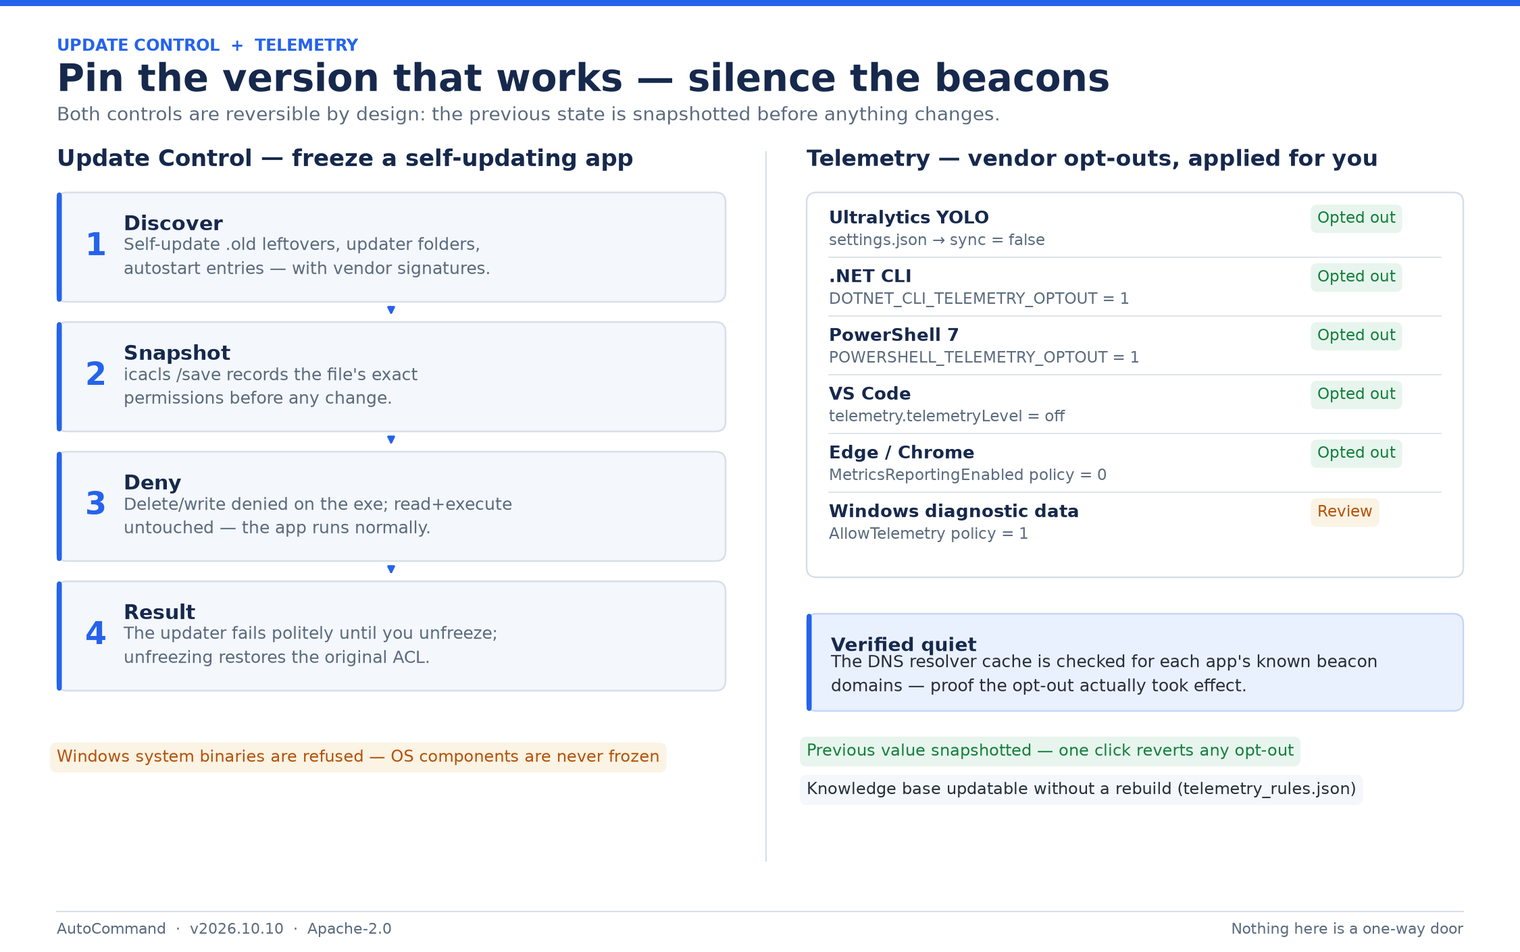
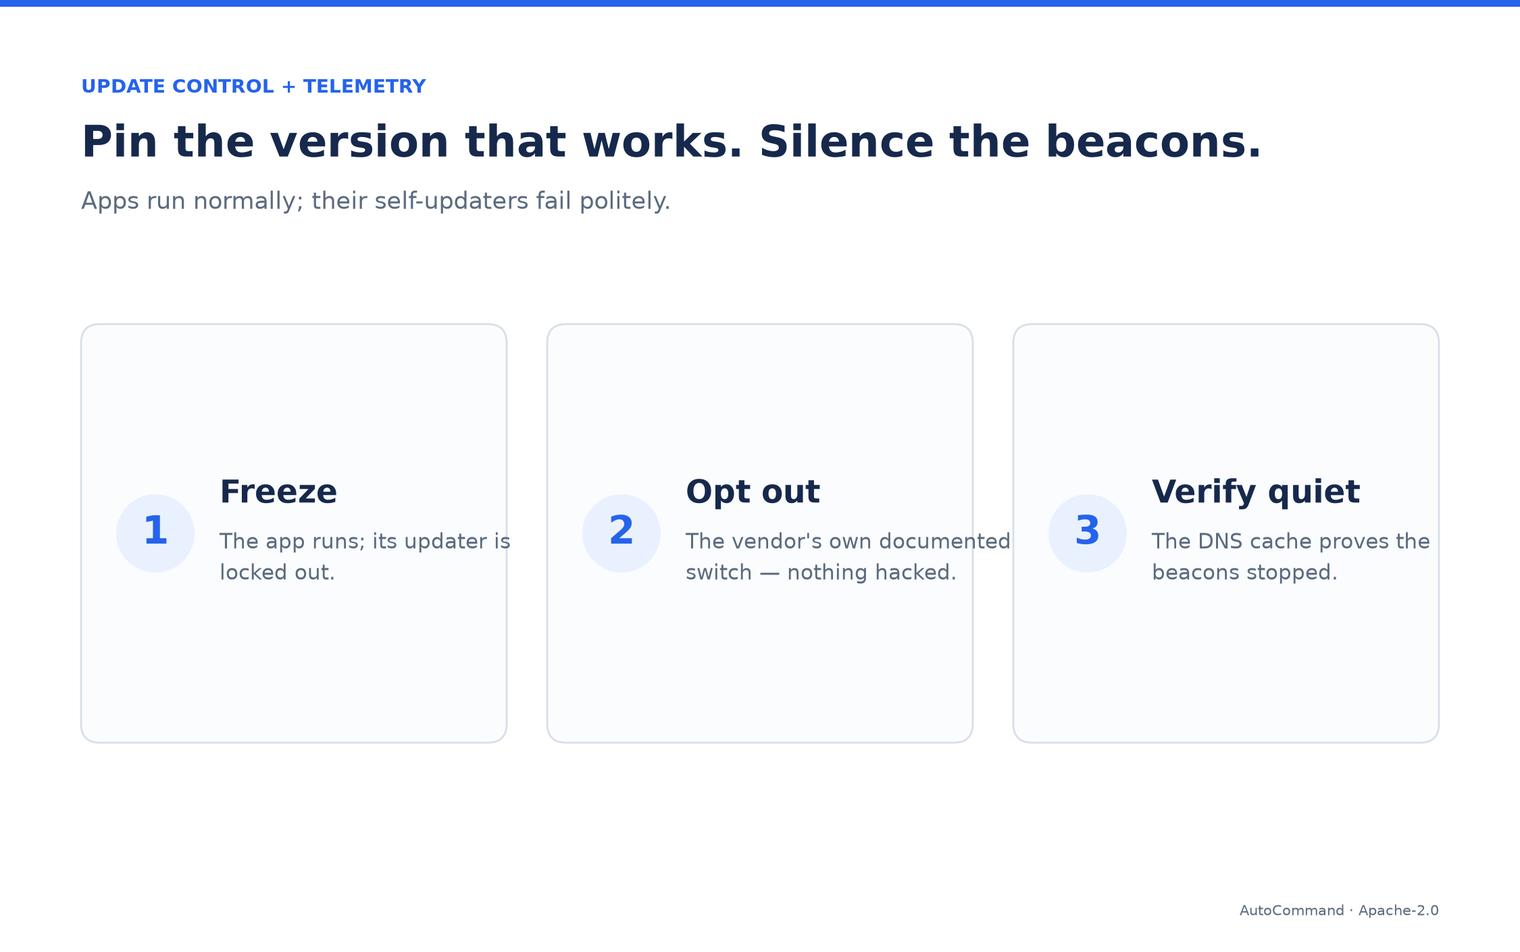
docs: README rewritten for scannability; infographics redesigned clean
- README rebuilt: hero banner, why-bullets, one scannable table for all 16
  tabs, blocked-things workflow section, tightened safety/build/credits
- infographics redesigned at the source (Assets/regenerate_infographics.py):
  one headline + one subline + 3 numbered steps with a single short line
  each — replaces the dense multi-panel corporate layout; pills and card
  text are measured/wrapped so nothing overflows

diff --git a/Assets/regenerate_infographics.py b/Assets/regenerate_infographics.py
@@ -1,0 +1,175 @@
+"""AutoCommand README infographics — clean redesign.
+
+Design rules (why these images read at a glance):
+  ONE headline (<= 7 words), ONE subline (<= 12 words),
+  exactly 3 steps: big number + 2-4 word label + ONE line of <= 9 words.
+  No jargon, no chips, no dense paragraphs, no stale version footer.
+
+Usage:  python Assets/regenerate_infographics.py
+Outputs: corp_banner, corp_why, corp_debloat, corp_visibility,
+         corp_control, corp_hardening  (.png, 2250x1410)
+Requires: matplotlib
+"""
+import os
+
+import matplotlib
+matplotlib.use("Agg")
+import matplotlib.pyplot as plt
+from matplotlib.patches import Circle, FancyBboxPatch
+
+matplotlib.rcParams["font.family"] = "DejaVu Sans"
+
+PAGE = "#FFFFFF"
+NAVY = "#16294C"
+MUTED = "#5B6B7E"
+ACCENT = "#2563EB"
+ACCENT_SOFT = "#EAF1FE"
+BORDER = "#D7DFE9"
+W, H = 2250, 1410
+MARGIN = 120
+OUT = os.path.dirname(os.path.abspath(__file__))
+
+
+def canvas():
+    fig = plt.figure(figsize=(W / 100, H / 100), dpi=100)
+    ax = fig.add_axes([0, 0, 1, 1])
+    ax.set_xlim(0, W)
+    ax.set_ylim(0, H)
+    ax.invert_yaxis()
+    ax.axis("off")
+    fig.patch.set_facecolor(PAGE)
+    ax.add_patch(FancyBboxPatch((0, 0), W, 10, boxstyle="round,pad=0,rounding_size=0",
+                                linewidth=0, facecolor=ACCENT))
+    return fig, ax
+
+
+def header(ax, kicker, title, subline):
+    ax.text(MARGIN, 130, kicker.upper(), fontsize=20, color=ACCENT,
+            fontweight="bold", va="center")
+    ax.text(MARGIN, 215, title, fontsize=46, color=NAVY, fontweight="bold", va="center")
+    ax.text(MARGIN, 300, subline, fontsize=25, color=MUTED, va="center")
+
+
+def step_card(ax, fig, x, y, w, h, num, label, line):
+    ax.add_patch(FancyBboxPatch((x, y), w, h, boxstyle="round,pad=0,rounding_size=28",
+                                linewidth=2, edgecolor=BORDER, facecolor="#FBFCFE"))
+    import textwrap
+    cx = x + 110
+    cy = y + h / 2
+    ax.add_patch(Circle((cx, cy), 58, facecolor=ACCENT_SOFT, edgecolor="none"))
+    ax.text(cx, cy, str(num), fontsize=42, color=ACCENT, fontweight="bold",
+            ha="center", va="center")
+    x_text = x + 205
+    usable = w - 205 - 70
+    wrap_at = max(14, int(usable / 12.2))          # ~px per char at 22px DejaVu
+    lines = textwrap.wrap(line, wrap_at)[:3]
+    ax.text(x_text, cy - 58, label, fontsize=34, color=NAVY, fontweight="bold", va="center")
+    for i, ln in enumerate(lines):
+        ax.text(x_text, cy + 14 + i * 46, ln, fontsize=22, color=MUTED, va="center")
+
+
+def three_steps(ax, fig, steps):
+    gap = 60
+    cw = (W - 2 * MARGIN - 2 * gap) / 3
+    y, h = 480, 620
+    for i, (label, line) in enumerate(steps):
+        step_card(ax, fig, MARGIN + i * (cw + gap), y, cw, h, i + 1, label, line)
+
+
+def pill_row(ax, fig, items, y, fontsize=23):
+    renderer = fig.canvas.get_renderer()
+    px = MARGIN
+    for p in items:
+        t = ax.text(px, y, p, fontsize=fontsize, color=NAVY, va="center", fontweight="bold",
+                    bbox=dict(boxstyle="round,pad=0.65", facecolor=ACCENT_SOFT, edgecolor="none"))
+        bb = t.get_window_extent(renderer=renderer).transformed(ax.transData.inverted())
+        px = bb.x1 + 55
+
+
+def finish(fig, name):
+    ax = fig.axes[0]
+    ax.text(W - MARGIN, H - 60, "AutoCommand · Apache-2.0", fontsize=15,
+            color=MUTED, ha="right", va="center")
+    fig.savefig(os.path.join(OUT, name), dpi=100, facecolor=PAGE)
+    plt.close(fig)
+    print("wrote", name)
+
+
+# ── 1. banner ────────────────────────────────────────────────────────────
+def banner():
+    fig, ax = canvas()
+    ax.text(MARGIN, 520, "AutoCommand", fontsize=104, color=NAVY, fontweight="bold", va="center")
+    ax.text(MARGIN, 690, "See what your Windows PC is really doing — then take it back, one click at a time.",
+            fontsize=30, color=MUTED, va="center")
+    pill_row(ax, fig, ["See every connection", "Know who launched it",
+                       "Block in one click", "Undo just as fast"], 900)
+    finish(fig, "corp_banner.png")
+
+
+# ── 2. why ───────────────────────────────────────────────────────────────
+def why():
+    fig, ax = canvas()
+    header(ax, "Why AutoCommand", "Twelve tools. One dashboard.",
+           "The questions that cost an afternoon become a row, a color, a click.")
+    three_steps(ax, fig, [
+        ("Spot it", "The process, the IP, the owner — one row."),
+        ("Understand it", "Who launched it, and what it does."),
+        ("Take it back", "Block, kill, disable — one click each."),
+    ])
+    finish(fig, "corp_why.png")
+
+
+# ── 3. debloat ───────────────────────────────────────────────────────────
+def debloat():
+    fig, ax = canvas()
+    header(ax, "Quick Scan", "A fresh Windows, clean in one pass.",
+           "Debloat, firewall, privacy and hardening — one guided checklist.")
+    three_steps(ax, fig, [
+        ("Sweep", "23 preinstalled apps gone in one confirmation."),
+        ("Lock down", "Firewall, privacy and hardening presets applied."),
+        ("Verify", "Every step re-checks itself when the pass ends."),
+    ])
+    finish(fig, "corp_debloat.png")
+
+
+# ── 4. visibility ────────────────────────────────────────────────────────
+def visibility():
+    fig, ax = canvas()
+    header(ax, "Process Monitor + Sysmon Audit", "See every connection — know who launched it.",
+           "A live, attributed view that survives process exit.")
+    three_steps(ax, fig, [
+        ("Watch", "Live grid: process, destination, hostname."),
+        ("Attribute", "The parent survives process exit — no mystery PIDs."),
+        ("Act", "Block the IP or app; kill the process."),
+    ])
+    finish(fig, "corp_visibility.png")
+
+
+# ── 5. control ───────────────────────────────────────────────────────────
+def control():
+    fig, ax = canvas()
+    header(ax, "Update Control + Telemetry", "Pin the version that works. Silence the beacons.",
+           "Apps run normally; their self-updaters fail politely.")
+    three_steps(ax, fig, [
+        ("Freeze", "The app runs; its updater is locked out."),
+        ("Opt out", "The vendor's own documented switch — nothing hacked."),
+        ("Verify quiet", "The DNS cache proves the beacons stopped."),
+    ])
+    finish(fig, "corp_control.png")
+
+
+# ── 6. hardening ─────────────────────────────────────────────────────────
+def hardening():
+    fig, ax = canvas()
+    header(ax, "OS Hardening + DBX Safety", "Lock it down — and keep it locked.",
+           "Guards that re-assert themselves when something drifts back.")
+    three_steps(ax, fig, [
+        ("Guard", "SSTP and kernel-debug surfaces stay off."),
+        ("Watch", "The Secure Boot chain is hashed and checked."),
+        ("Confirm first", "DBX updates apply only with your yes."),
+    ])
+    finish(fig, "corp_hardening.png")
+
+
+if __name__ == "__main__":
+    banner(); why(); debloat(); visibility(); control(); hardening()

diff --git a/README.md b/README.md
@@ -2,103 +2,66 @@
 
 ![AutoCommand](Assets/corp_banner.png)
 
-**AutoCommand** is a free, open-source security and control dashboard for Windows 10 and 11. It runs as one administrator window where every question that normally costs you an afternoon — *what is this process, who launched it, where is it connecting, how do I make it stop, why does my PC phone home, what updated itself last night?* — becomes a row in a table, a colored status card, or a single button.
+A free, open-source security and control dashboard for Windows 10 and 11. One administrator window answers every question that normally costs you an afternoon — *what is this process, who launched it, where is it connecting, how do I make it stop?* — as a row in a table, a colored card, or a single button.
 
-> **⬇ Download:** grab the latest self-contained build from the [**Releases page**](https://github.com/dparksports/autocommand-windows/releases) — no .NET installation required. Unzip, run `AutoCommand.exe` as Administrator, done.
+> **⬇ Download** the latest self-contained build from the [**Releases page**](https://github.com/dparksports/autocommand-windows/releases) — no .NET required. Unzip, run `AutoCommand.exe` as Administrator.
 >
-> **🔧 Under the hood:** every technology mentioned below is documented in the [**Technical Notes**](docs/TECHNICAL_NOTES.md) — what runs, what it touches on disk, and why. Licensed Apache 2.0.
+> **🔧 How it works inside:** every technology below is documented in the [Technical Notes](docs/TECHNICAL_NOTES.md). Apache 2.0.
 
 ---
 
 ## Why it exists
 
-Windows spreads the answers across a dozen tools that don't talk to each other. AutoCommand puts the whole picture in one place and turns the scary parts into single clicks:
+Windows spreads the answers across a dozen tools that don't talk to each other. AutoCommand puts the whole picture in one place:
 
 ![Why AutoCommand](Assets/corp_why.png)
 
-Concretely, the situations it is built for:
-
-* **A mystery process is sending packets to a server you don't recognize.** Find it by PID or destination, read which process owns it and what launched it — even if the process already exited — then block the IP, block the executable, kill the process, or disable the scheduled task that would resurrect it tomorrow at 3 a.m.
-* **You want a record, not a guess.** Install Sysmon from the app in one click, and from then on every process launch (full command line and parent), every network connection and every DNS query is recorded locally — so "what was that?" becomes a lookup instead of forensics.
-* **An app keeps replacing itself** and you want it pinned at the version that works. Freeze it: the app keeps running, its updater fails politely, and unfreezing restores the original permissions exactly.
-* **Libraries and apps silently beacon usage statistics.** See which installed software has telemetry on, apply the vendor's own documented opt-out with the previous value snapshotted, and verify the beacons actually stopped.
-* **A fresh Windows install needs an afternoon of cleanup.** Debloat 23 preinstalled apps in one confirmation, lock the firewall down, remove kernel-debug surfaces, guard the Secure Boot chain — and skip the steps for the things you actually use.
+- **A mystery process is phoning home.** Find the row — process, destination, owner — then block the IP, block the executable, kill the process, or disable the scheduled task that would resurrect it at 3 a.m.
+- **You want a record, not a guess.** One click installs Sysmon, and from then on every process launch, connection, and DNS query is recorded locally.
+- **An app keeps replacing itself.** Freeze it: the app runs, its updater fails politely, and unfreezing restores the original permissions exactly.
+- **Software silently beacons usage stats.** Apply the vendor's own documented opt-out, snapshot the previous value, and verify the beacons actually stopped.
 
 ---
 
-## What you get, tab by tab
+## The tabs
 
-### 🚀 Quick Scan — the first-hour ritual, one pass
+| Tab | What it gives you |
+|---|---|
+| 🚀 **Quick Scan** | The whole first-hour ritual — debloat, firewall, privacy, hardening — as one guided pass that re-verifies itself. |
+| 📡 **Attack Surface** | The network doors Windows ships open: SSTP tunneling, KDNET debug adapters, hosted-network hotspots. Inspect, disable, remove. |
+| 🛡 **Firewall** | Curated profiles (lockdown, home-LAN, per-app) in one click over the native `INetFwPolicy2` engine, with drift detection. |
+| 📦 **Bloatware** | 23 preinstalled apps removed in one sweep. Use one of them? Toggle it off the list — permanently. |
+| 🧭 **Sysmon Audit** | One status card + a live feed of every process launch with full command line and parent. Installed and configured from the app. |
+| 🔍 **Process Monitor** | Live grid of outbound connections with packet counters (no WinPcap needed), background reverse-DNS, and attribution that survives process exit. Block, kill, inspect — with warnings before you take out something Windows needs. |
+| 🔬 **Svchost Trace** | A timeline over the 70+ `svchost.exe` service hosts — spawns with parents, connection lifetimes, byte flows — plus a pattern detector: bad parents, respawn loops, beacon-regular connections, upload-dominant flows. Exports JSONL; drives a headless capture service with boot auto-start. |
+| 📊 **Telemetry** | Known telemetry senders (Edge, Chrome, .NET CLI, VS Code, …), the vendor's own documented opt-out, previous value snapshotted, quiet verified via the DNS cache. |
+| 👁 **Privacy** | Microsoft's diagnostic task disabled, AutoCommand's own analytics opt-in, tamper-protection status visible. |
+| ❄ **Update Control** | Freeze self-updating apps at the version that works — `icacls` snapshots make unfreezing exact. Windows binaries are refused. |
+| 📋 **Tasks · 🚀 Startup · 🌙 Hibernation · 🌐 Connections** | Full Task Scheduler control, startup entries, hibernation posture, and a second live connection view. |
+| 🔒 **OS Hardening + ✅ DBX Safety** | Self-healing guards on SSTP/kernel-debug, the Secure Boot chain hashed and watched, DBX revocations applied only with your yes. |
+| ⚙ **Settings** | Startup behavior, analytics opt-in, live version — and the status bar's **🚑 Restore Internet** button. |
 
-![Quick Scan and Bloatware](Assets/corp_debloat.png)
+![Process Monitor and Sysmon Audit](Assets/corp_visibility.png)
 
-The whole post-install cleanup — debloat sweep, firewall lockdown, privacy changes, hardening checks — as a single guided pass. Every step reuses the exact actions behind its dedicated tab, and the checklist doubles as a live status dashboard that re-verifies when the pass finishes. For the first hour after a clean Windows install, this is the only tab you need.
+## Blocked things, managed
 
-### 📡 Attack Surface — close the doors Windows leaves open
+Blocking is easy; *un*-blocking is where other tools strand you. AutoCommand:
 
-One inventory for the network surfaces Windows ships with and never mentions: SSTP tunneling and WAN miniports (remote-access doors), KDNET kernel-debug adapters, hosted-network and Wi-Fi Direct ghost hotspots. Inspect status at a glance, then disable, neuter, or remove each one — with a refresh that keeps the picture honest.
+- **warns before you block** — Microsoft/CDN destinations and DNS-carrying service hosts are flagged with what will break;
+- **keeps rules self-describing** — 2 idempotent rules per target with full provenance in the description, readable from `wf.msc`;
+- **groups every block in one manager** — Microsoft/Windows rows in red, bulk unblock, legacy 4-rules-per-IP consolidation, and hit counts from the firewall's own drop log (one click to enable);
+- **verifies unknown IPs for you** — one button asks the internet registries (RDAP) who owns each target, cached machine-wide;
+- **restores you from mistakes** — the status-bar 🚑 button disables every AutoCommand block and flushes DNS in one click; *Restore except Microsoft/Windows* brings your real blocks back while leaving only the breakage-causing ones off.
 
-### 🛡 Advanced Firewall — lockdown to home-LAN in seconds
-
-Curated profiles (full lockdown, home-LAN, per-app) applied in one click over the `INetFwPolicy2` COM engine, with a baseline of every rule's enabled state and drift reporting on re-scan. One-click block rules for any IP or executable, from here or from the Process Monitor.
-
-### 📦 Bloatware — 23 apps gone in one confirmation
-
-Twenty-three preinstalled apps (Copilot, Teams, OneDrive, Xbox, Solitaire, Feedback Hub, …) removed in one sweep — OneDrive through its own Win32 uninstaller, Store apps through the deployment engine, and classic OS components like `mstsc.exe` deliberately never offered. Every row carries a **＋ Bloatware / ✓ Bloatware** toggle and a Manage-List dialog, so if you actually use one of them, it never gets touched again; your list persists machine-wide as a delta over the defaults.
-
-### 🧭 Sysmon Audit + 🔍 Process Monitor — every connection, attributed
-
-![See everything — and know who launched it](Assets/corp_visibility.png)
-
-**Sysmon Audit** builds the record Windows doesn't keep: one status card (service state, channel health, events per 24 h, active config hash) with Install / Repair / Apply-Config buttons, and a live feed of every process launch with its full command line and parent — backfilled from the log when you open the tab, so the answer survives hours later. The recommended configuration captures process creations, network connections and DNS queries.
-
-**Process Monitor** turns that record into a live, self-updating grid of outbound connections (with a raw-socket sniffer for packet counters — no WinPcap/Npcap needed), sorted most-recent-traffic-first: a row jumps to the top the moment new packets arrive, and rows silent for 5+ minutes fade. Reverse-DNS runs in the background — you read hostnames, not IPs.
-
-The part Windows cannot do: **attribution that survives process exit.** Short-lived helpers (spawned scripts, one-shot updaters, `taskhostw.exe` DLL hosts) are named, pathed, and tied to the scheduled task that launched them — including *which DLL* a COM-handler task actually executes, and a flag when that DLL no longer exists (classic leftover of uninstalled software). Right-click any row to block its IP or executable, kill the process, or inspect/disable the task behind it. Everything exports to CSV.
-
-**Blocking that won't bite you.** Before a block lands, the destination is classified against known Microsoft/CDN ranges and service hosts are recognized — so taking out an update edge or the DNS-carrying svchost instance warns you *first*. Every block is 2 idempotent rules (not 4 near-duplicates) with full provenance in the rule description, readable from `wf.msc`. **Blocked → Manage all** opens the fleet view: targets grouped by destination owner with Microsoft/Windows rows in red, bulk unblock (including "unblock all Microsoft-owned"), one-click legacy-set consolidation (4 rules → 2), hit counts from the firewall's own drop log (one button to enable), and **RDAP-verified ownership** — registry answers cached machine-wide in `C:\ProgramData\AutoCommand\rdap-cache.json`, keyed by registered block so one lookup covers thousands of sibling IPs.
-
-### 🔬 Svchost Trace — the timeline and the pattern detector
-
-**Svchost Trace** watches the 70+ `svchost.exe` service hosts the way Process Monitor watches connections: spawn events with parent process and hosted service, TCP connect/close with lifetimes, cumulative byte samples — one JSONL timeline you can export and re-analyze offline. On top of it, a pattern detector flags what matters: svchost instances whose parent isn't `services.exe`, service respawn loops, destinations classified against known Microsoft/CDN ranges (unknowns flagged for RDAP verification), beacon-regular connection intervals (coefficient of variation below 0.35), and upload-dominant flows.
-
-The tab also drives the headless capture service: **Start/Stop** runs the collector as a detached process that survives the app; **Auto-start on boot** persists it via your user Run key (no UAC); a global mutex keeps exactly one capture alive; size-capped rotation keeps the disk bounded. Traces exported here replay in the command-line analyzer (`svchost-watch/SvchostAnalyzer`).
-
-### 📊 Telemetry — real opt-outs, verified quiet
-
-![Pin the version that works — silence the beacons](Assets/corp_control.png)
-
-Scans installed software against a knowledge base of known telemetry senders (Ultralytics YOLO, .NET CLI, PowerShell 7, VS Code, Edge, Chrome, Windows diagnostic data — updatable without a rebuild). Each row shows the on/off state with the exact evidence, applies the **vendor's own documented opt-out** (a settings key, environment variable or policy — never a firewall hack), keeps the previous value snapshotted so one click reverts it, and verifies via the DNS resolver cache that the beacons actually stopped. The first row of that table is ours: AutoCommand's own telemetry is opt-in.
-
-### 👁 Privacy — your choices, visibly in force
-
-Disables Microsoft's diagnostic-data task, keeps AutoCommand's own analytics behind an explicit opt-in, and surfaces tamper-protection status — so you can see at a glance whether your choices are still in force.
-
-### ❄ Update Control — pin the version that works
-
-Discovers self-updating apps on your machine (self-update `.old` leftovers, updater folders, autostart updaters) with their vendor signatures. Freezing one snapshots its permissions (`icacls /save`) and then denies delete/write on the executable: the app runs normally, its updater fails until you unfreeze, and unfreezing restores the original ACL exactly. Windows-signed system binaries are refused outright.
-
-### 📋 Tasks · 🚀 Startup · 🌙 Hibernation · 🌐 Connections
-
-Full Task Scheduler control (enable, disable, run, stop, delete), startup-entry management, hibernation posture in one toggle, and an alternate live view of current connections with process attribution and background reverse-DNS.
-
-### 🔒 OS Hardening + ✅ DBX Safety — lock it down, keep it locked
-
-![Lock it down — and keep it locked](Assets/corp_hardening.png)
-
-Self-healing guards stop and disable SSTP tunneling and kernel-debug surfaces — and re-assert themselves if something drifts back, with toast alerts from the background Security Enforcer. The Secure Boot chain is hashed and watched: every EFI module against a stored baseline, boot-manager checks gated by SHA256 + Authenticode, and Microsoft DBX revocation updates parsed and applied only after explicit confirmation.
-
-### ⚙ Settings
-
-Startup behavior, analytics preference, and live application information — plus a status bar that always tells you whether the background Security Enforcer is active, and a **🚑 Restore Internet** panic button for the worst-case click: one press disables every AutoCommand-created block rule (nothing deleted, fully reversible) and flushes the DNS cache automatically, while **Restore except Microsoft/Windows** in the Blocked Rules manager brings back your real blocks and leaves only the breakage-causing ones off. The About card carries the © footnote.
-
----
+![Update Control and Telemetry](Assets/corp_control.png)
 
 ## What AutoCommand will not do
 
-* **Nothing runs without you.** Removals, applies, freezes and DBX updates all confirm first; AI-generated commands are displayed for approval.
-* **Non-removable means non-offered.** System-signed OS components never appear in the bloatware list, and Windows binaries are never frozen by Update Control.
-* **No hidden state.** Everything the app remembers is readable JSON/text on disk, listed at the end of the [Technical Notes](docs/TECHNICAL_NOTES.md). Its own telemetry is opt-in and off unless you say yes.
+- **Nothing runs without you.** Removals, applies, freezes, and DBX updates all confirm first.
+- **Non-removable means non-offered.** System-signed components never appear in the bloatware list; Windows binaries are never frozen.
+- **No hidden state.** Everything the app remembers is readable JSON/text on disk (listed in the [Technical Notes](docs/TECHNICAL_NOTES.md)); its own telemetry is opt-in and off by default.
+
+![OS Hardening](Assets/corp_hardening.png)
 
 ## Build from source
 
@@ -114,6 +77,6 @@ dotnet publish AutoCommand.csproj -c Release -r win-x64 --self-contained
 
 Run the published `AutoCommand.exe` as Administrator — WPF, .NET 10, Windows 10 (19041+) / Windows 11.
 
-## Contributing & license
+## Credits & license
 
-Issues and PRs welcome — pick a tab, keep the design rules in the [Technical Notes](docs/TECHNICAL_NOTES.md) (zero-PowerShell core, explicit confirmation, verified downloads), and match the existing code style. Apache License 2.0.
+© 2026 Dan Park, magicpoint.ai · Made with ❤ in California · Apache License 2.0 · Issues and PRs welcome.
